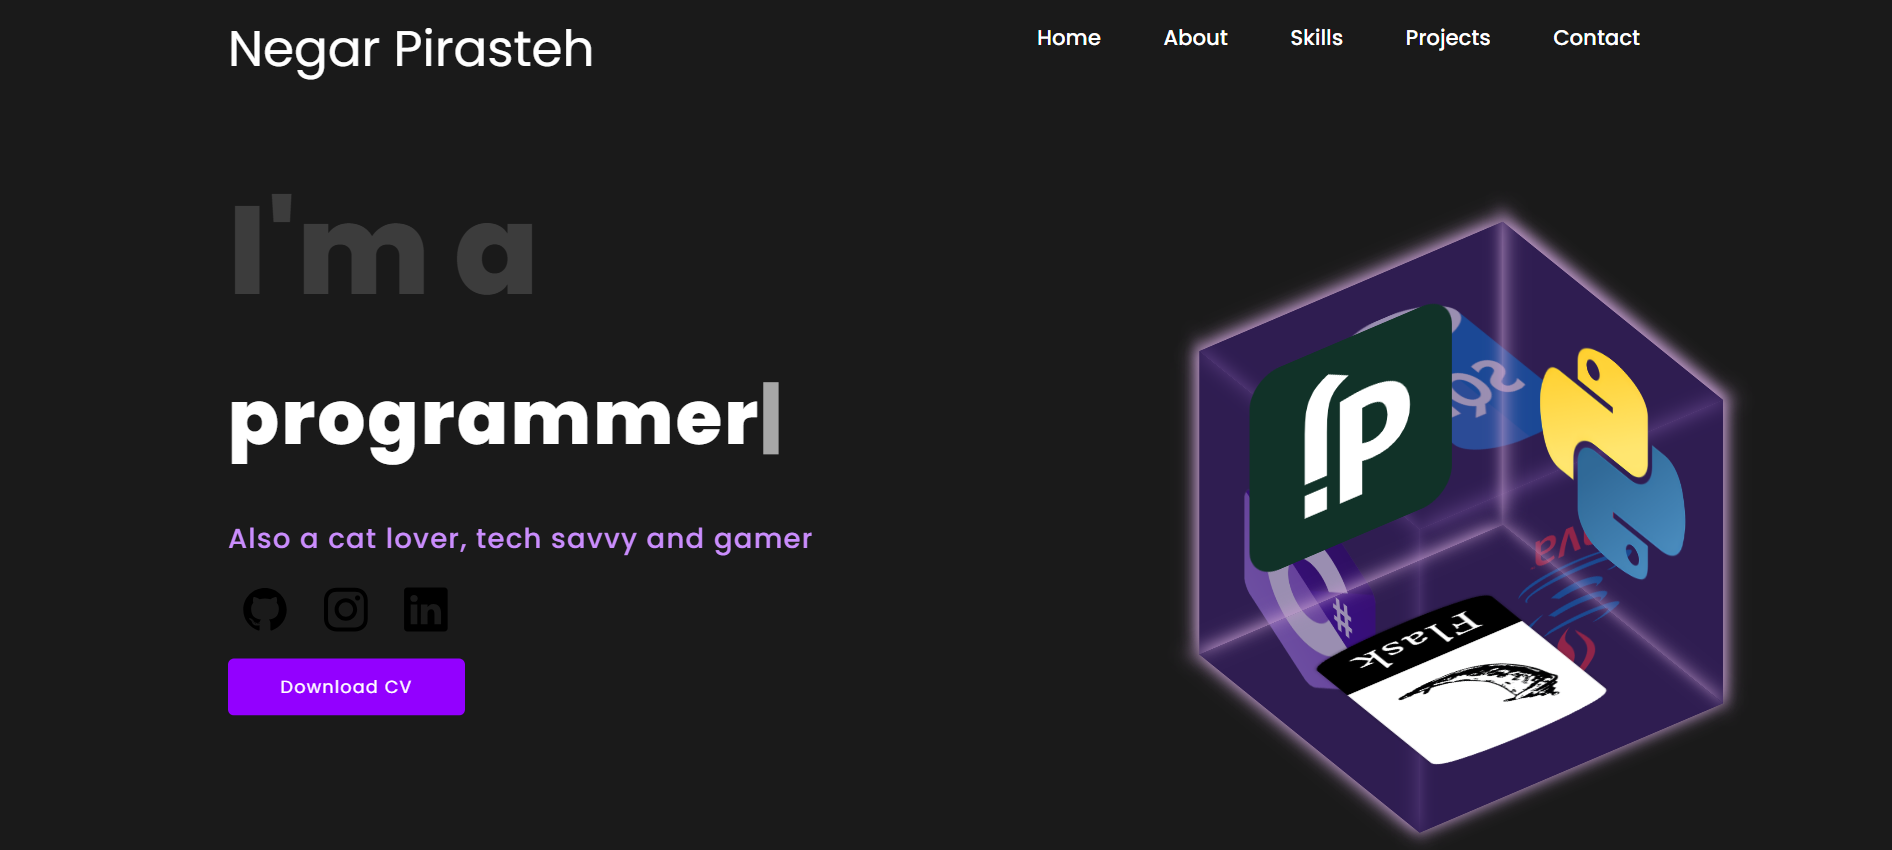
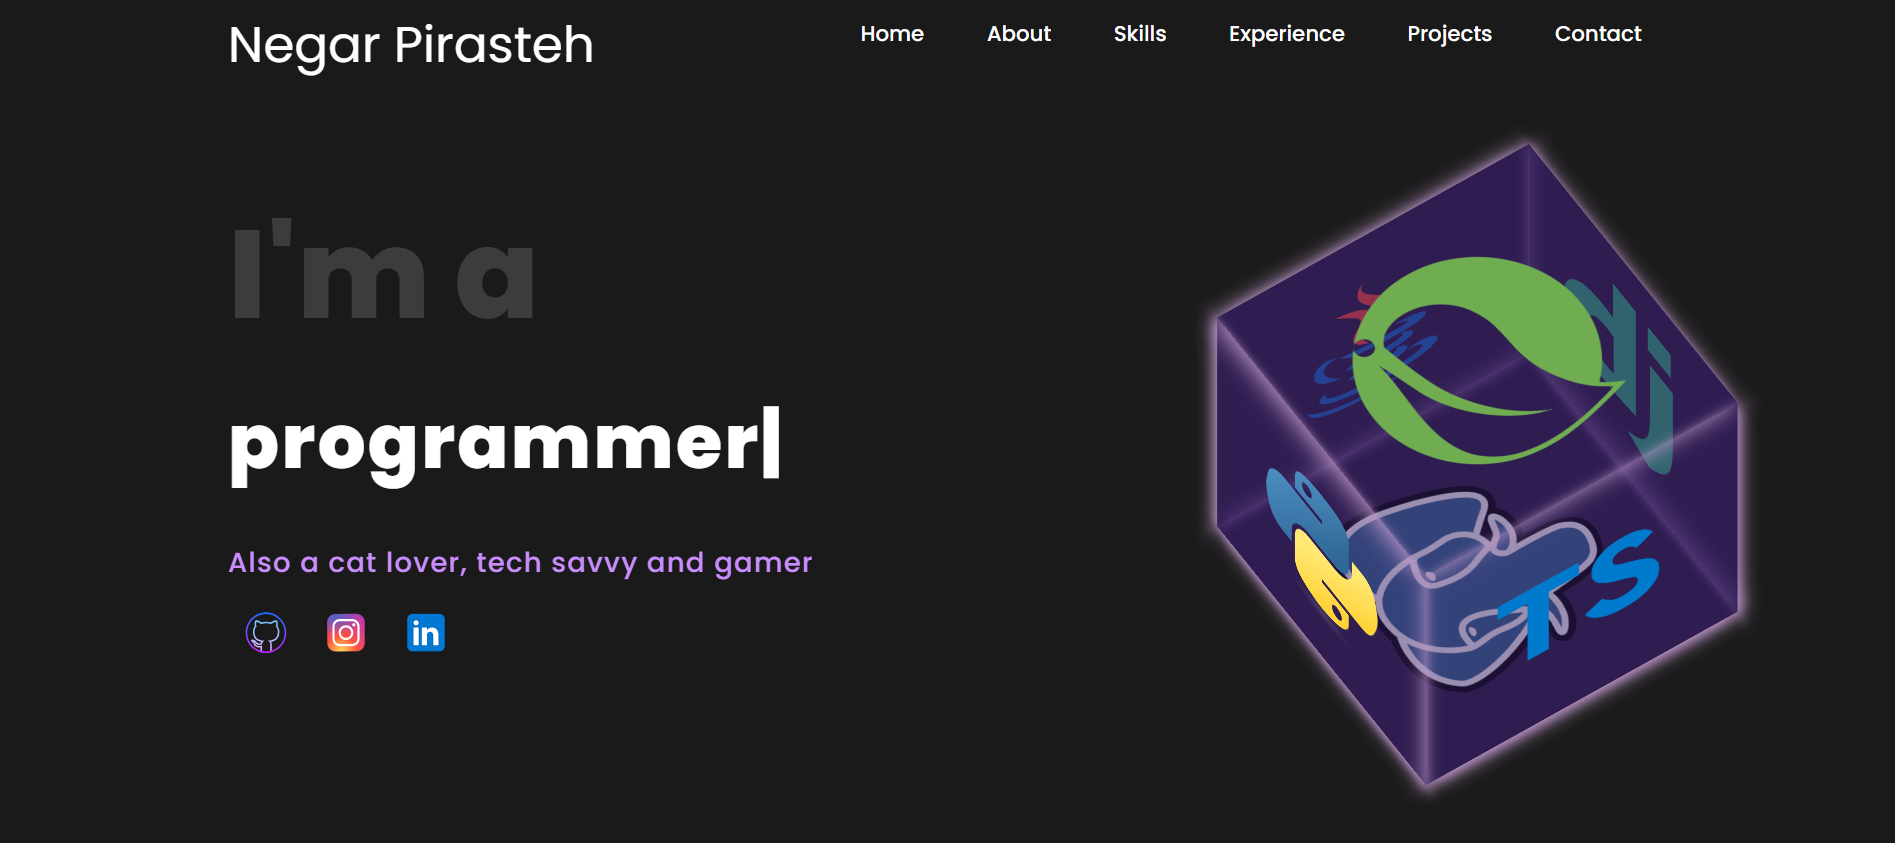
screenshots

diff --git a/index.html b/index.html
@@ -134,12 +134,12 @@
 
       <div class="container">
         <div class="cube">
+          <div><img src="assets/images/skills/Python.svg" alt="" /></div>
           <div><img src="assets/images/skills/django.svg" alt="" /></div>
-          <div><img src="assets/images/cube/2.png" alt="" /></div>
-          <div><img src="assets/images/cube/3.png" alt="" /></div>
-          <div><img src="assets/images/cube/4.png" alt="" /></div>
-          <div><img src="assets/images/cube/5.png" alt="" /></div>
-          <div><img src="assets/images/cube/6.png" alt="" /></div>
+          <div><img src="assets/images/skills/java.svg" alt="" /></div>
+          <div><img src="assets/images/skills/typescript.svg" alt="" /></div>
+          <div><img src="assets/images/skills/spring.svg" alt="" /></div>
+          <div><img src="assets/images/skills/postgresql.svg" alt="" /></div>
         </div>
       </div>
     </div>
@@ -240,7 +240,7 @@
             </div>
             <div class="skill-item">
               <img src="assets/images/skills/express-js.svg" alt="Jakarta EE" />
-              <p>Express JS</p>
+              <p>Express</p>
             </div>
             <div class="skill-item">
               <img src="assets/images/skills/postgresql.svg" alt="PostgreSQL" />
